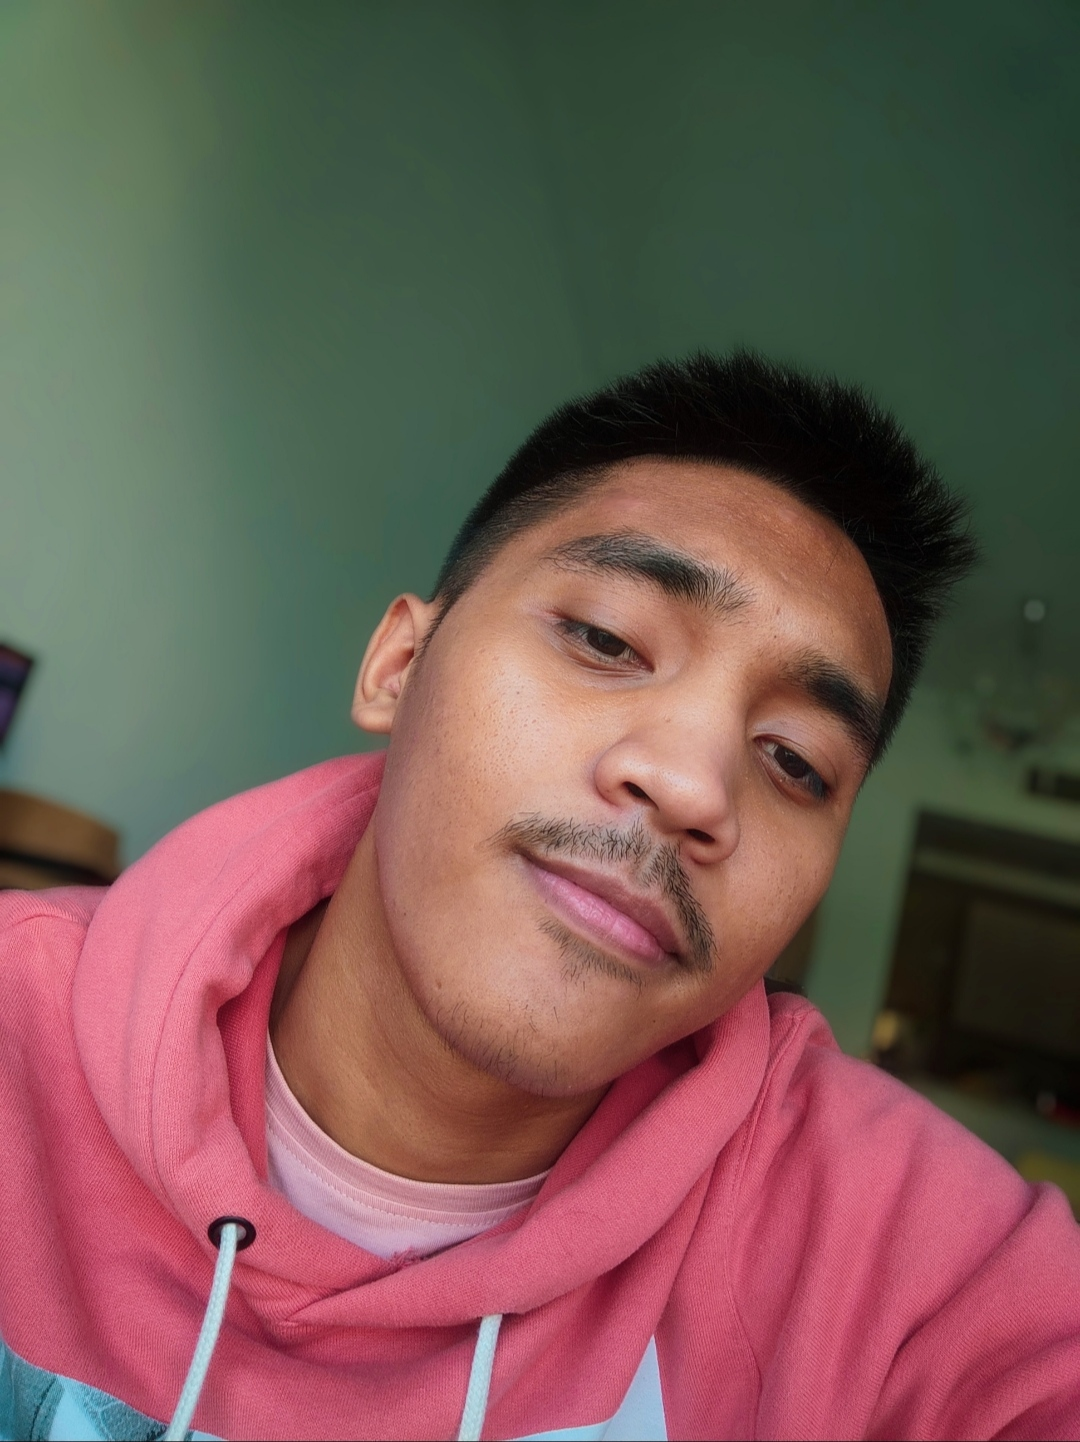
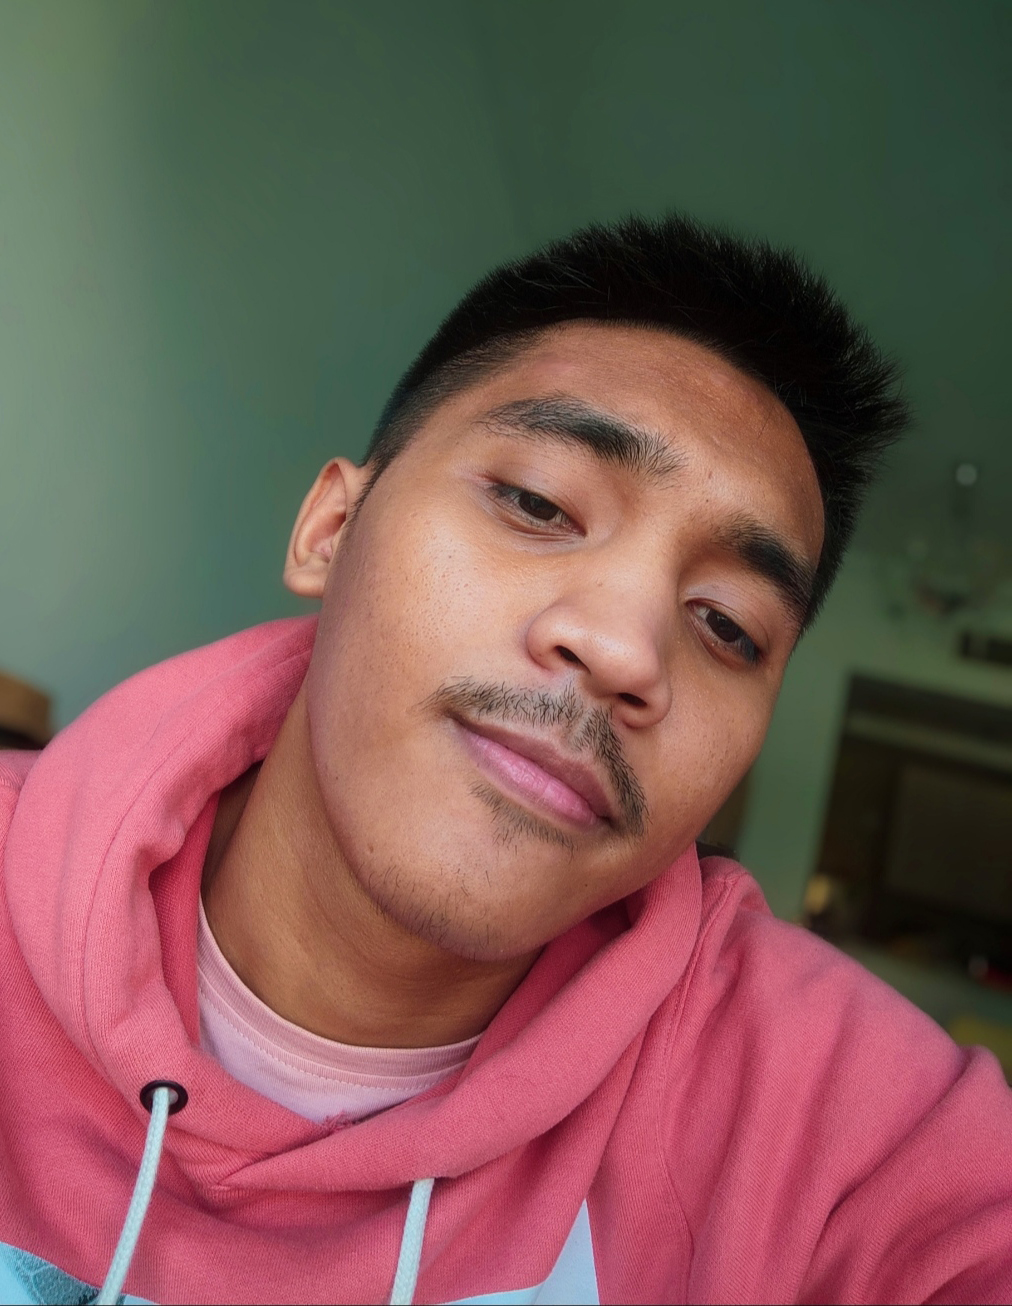
About me section done

diff --git a/index.html b/index.html
@@ -6,6 +6,7 @@
     <meta name="viewport" content="width=device-width, initial-scale=1.0">
     <title>Document</title>
     <link rel="stylesheet" href="./style.css">
+    <script src="https://kit.fontawesome.com/c8e4d183c2.js" crossorigin="anonymous"></script>
 </head>
 <body>
     <section id="about-me">
@@ -38,7 +39,7 @@
             <div class="about-me__info row">
                 <div class="about-me__info--container">
                     <figure class="about-me__picture--mask">
-                        <img src="./assets/aboutme.jpg" alt="picture me">
+                        <img src="./assets/me.jpg" class="about-me__picture" alt="picture me">
                     </figure>
                     <h1 class="about-me__info--title">
                        Hey! I'm <span class="text--primary">Phil Oaferina</span>
@@ -47,7 +48,24 @@
                         I'm a <strong class="text--primary">frontend software engineer</strong> with a strong passion for building responsive and performant web 
                         applications with great user experiences that positively impacts the world.
                     </p>
+                    <div class="about-me__links">
+                        <a href="" class="about-me__link">
+                            <i class="fab fa-linkedin"></i>
+                        </a>
+                        <a href="https://github.com/pkWafuuu" class="about-me__link" target="_blank">
+                            <i class="fab fa-github"></i>
+                        </a>
+                        <a href="" class="about-me__link">
+                            <i class="far fa-envelope"></i>
+                        </a>
+                        <a href="" class="about-me__link">
+                            <i class="fas fa-file-pdf"></i>
+                        </a>
+                    </div>
                 </div>
+                <figure class="about-me__img--container">
+                    <img src="./assets/undraw.svg" class="about-me__img" alt="">
+                </figure>
             </div>
         </div>
     </section>

diff --git a/style.css b/style.css
@@ -29,6 +29,17 @@ li {
     flex: 1;
 }
 
+.row {
+    width: 100%;
+    max-width: 800px;
+    margin: 0 auto;
+    padding: 0 12px;
+  }
+
+.text--primary {
+    color: 	#b44c34;
+}
+
 /* ***********************
         NAVIGATION BAR 
 ************************ */
@@ -55,7 +66,7 @@ nav {
 }
 
 .nav__link--anchor-primary {
-    background-color: #C0A76B;
+    background-color: #b44c34;
     padding: 8px 20px;
     border-radius: 50px;
     color: white;
@@ -63,12 +74,12 @@ nav {
 }
 
 .nav__link--anchor-primary:hover {
-    background-color: #cabe8f;
+    background-color: #d67761;
 }
 
 .personal__logo {
     font-size: 24px;
-    color: #9E5758;
+    color: #b44c34;
     margin: 0 12px;
     font-weight: 700;
 }
@@ -83,13 +94,74 @@ nav {
     flex-direction: column;
 }
 
+.about-me__info {
+    display: flex;
+    flex-direction: column;
+}
+
 .about-me__info--container {
     display: flex;
     flex-direction: column;
     align-items: center;
+    text-align: center;
+    max-width: 600px;
+    margin: 0 auto;
 }
 
-img {
-    height: 100px;
-    width: 100px;
+.about-me__picture--mask {
+    width: 130px;
+    height: 130px;
+    border-radius: 50%;
+    overflow: hidden;
+    box-shadow: 0 8px 16px rgba(0, 0, 0, 0.4);
+    margin-bottom: 24px;
+}
+
+.about-me__picture {
+    width: 100%;
+
+    transform: scale(1.015);
+    padding-bottom: 1700px;
+}
+
+.about-me__info--title {
+    margin-bottom: 16px;
+}
+
+.about-me__info--para {
+    font-size: 20px;
+    margin-bottom: 24px;
+}
+
+.about-me__links {
+    min-width: 150px;
+}
+
+.about-me__link {
+    text-decoration: none;
+    font-size: 20px;
+    margin: 0 16px;
+    color: #b44c34;
+    padding: 4px;
+    transition: 300ms;
+}
+
+.about-me__link:hover {
+    color: #d67761;
+}
+
+.about-me__img--container {
+    flex: 1;
+    display: flex;
+    justify-content: center;
+}
+
+.about-me__img {
+    width: 70%;
+}
+
+@media (min-width: 1980px) { 
+    .about-me__img {
+        width: 100%;
+    }
 }
